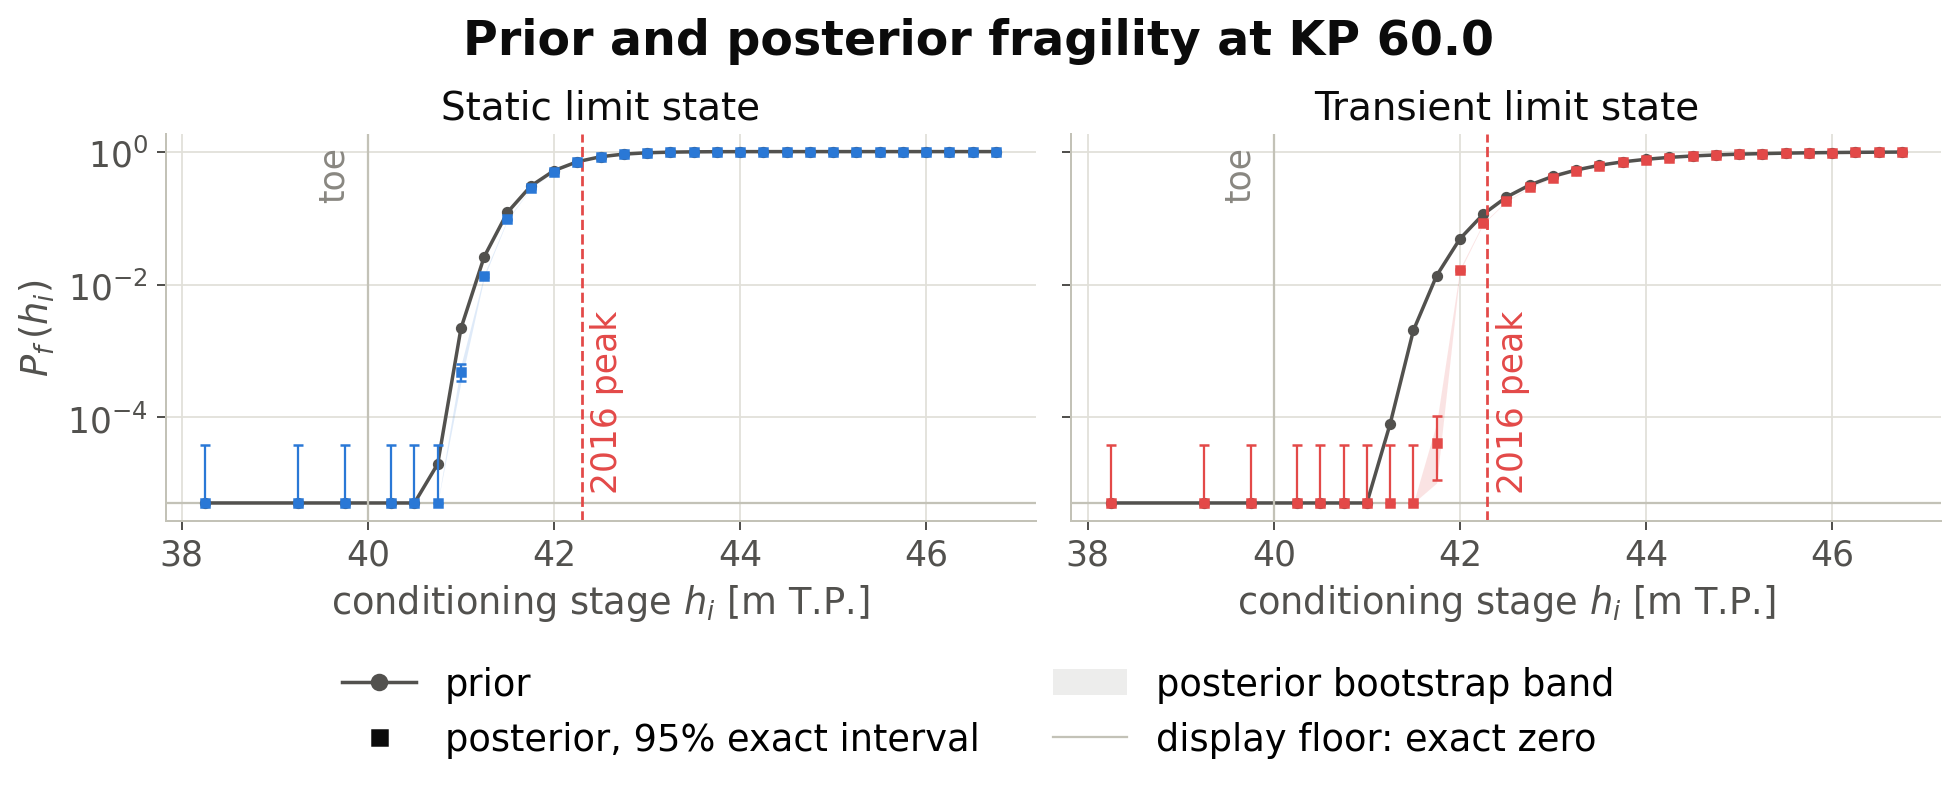
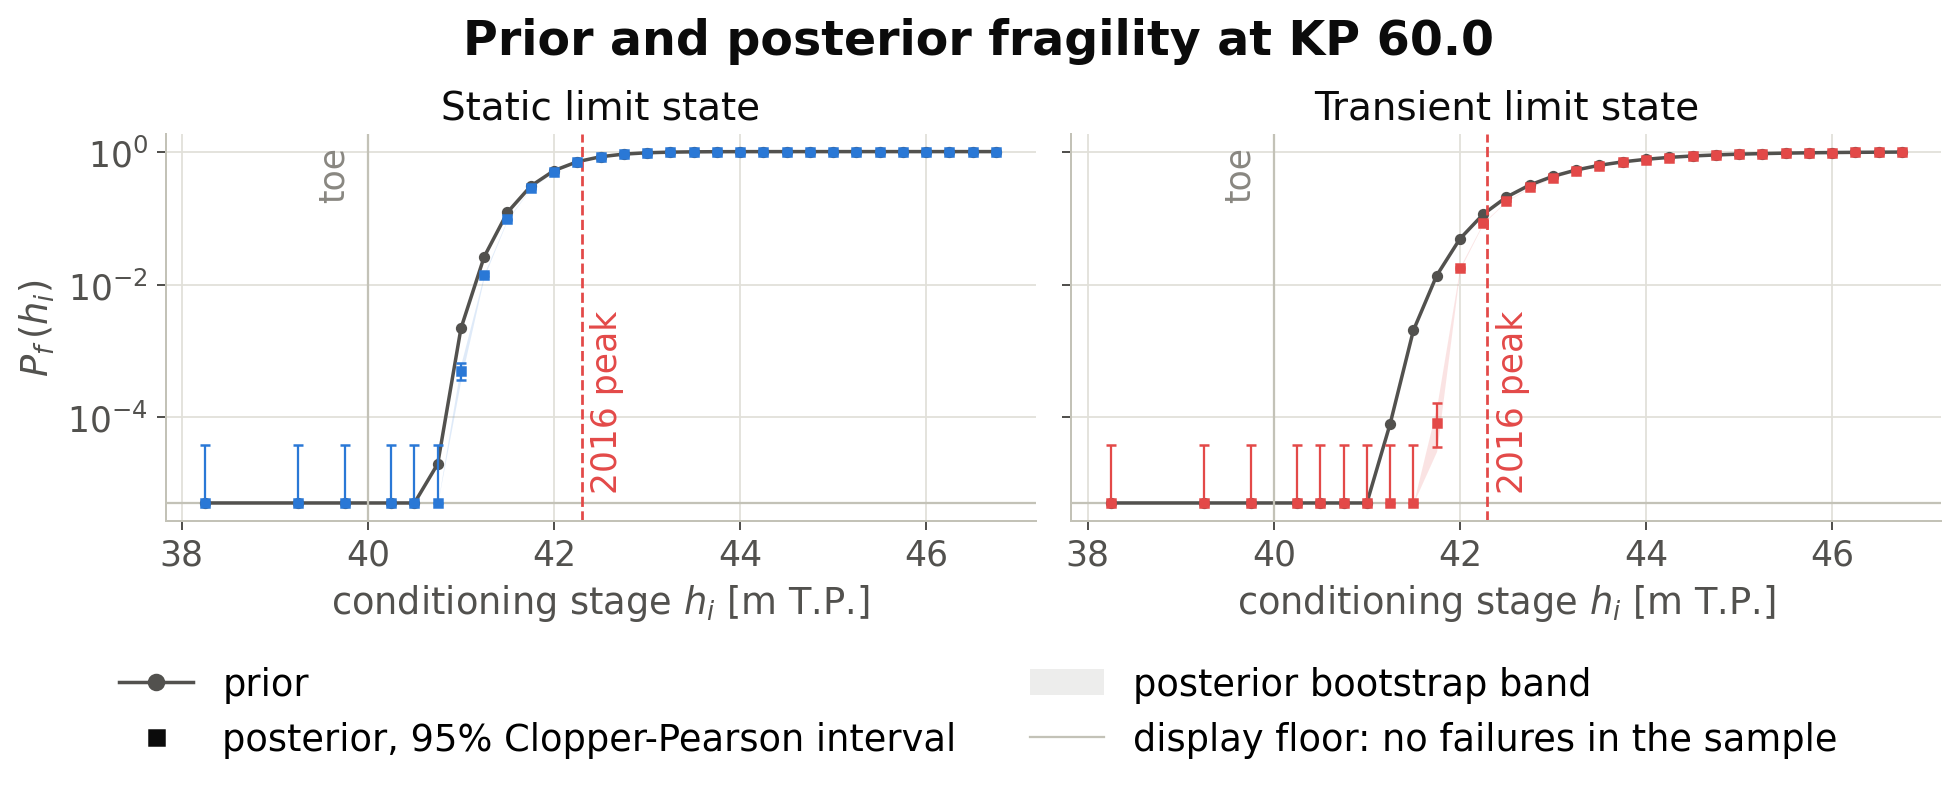
Say on four figures what the figures actually show
Label-only, no computed quantity touched, and every figure redrawn after a
byte-identity determinism check against its committed copy.

The grain-size dependence diagnostic titled its left panel "the median grain
size" over an axis of ln d60. The median is d50, which OYO reports separately;
both panels now name their percentile, and the leading "Against the" went with
it because the percentile form is nine characters longer and the two titles
then met in the gutter.

The Phase 2 posterior legend called the display floor an "exact zero" where a
marker on it means no realization failed at that level, and the same marker
carries a non-zero Clopper-Pearson upper whisker two pixels away. It now names
the count. The interval was labelled "95% exact interval"; after the coverage
measurement the construction is the part that may be claimed, so it is named.
The fifteen prose sites keep "exact binomial interval" as the construction's
name, deliberately.

The prior-fragility panels titled two sections "drained" over curves computed
on the unremediated foundation. The state is now given as as-built and the
figure title states the evaluation basis once, which covers all four panels of
both figures.

The aquifer-response legend set "1.5 h plateau" against a rising-limb axis.
ADR-0032 retired that figure against a measured 18 h rise and 9 h plateau, and
it is a plateau quantity; it is drawn here as the flood timescale the retired
[…]

diff --git a/scripts/plot_fragility_curves.py b/scripts/plot_fragility_curves.py
@@ -49,6 +49,20 @@ FIGURES_DIR = RESULTS_DIR / "figures"
 PUB_FIGURES_DIR = REPO_ROOT / "docs" / "figures"
 
 
+#: Panel titles carry the section's **as-built** remediation state, which the
+#: engine does not model: every curve in these figures is computed on the
+#: unremediated foundation (``remediation_state`` is a label, not physics).
+#: The word alone read as an applied drained model, so the state is named as
+#: as-built and the figure title states the evaluation basis once.
+PANEL_STATE_PREFIX = "as built"
+EVALUATION_BASIS = "unremediated foundation"
+
+
+def _panel_label(kp: str, remediation: str) -> str:
+    """``KP 58.8 · as built: drained`` — status, not model."""
+    return f"KP {kp}  ·  {PANEL_STATE_PREFIX}: {remediation}"
+
+
 def save_both(fig, name: str) -> None:
     """Write the study-local copy and the tracked publication copy."""
     FIGURES_DIR.mkdir(parents=True, exist_ok=True)
@@ -221,7 +235,7 @@ def figure_per_section(data: dict[str, dict]) -> None:
                 color=INK_2,
                 fontsize=fs.pt("annotation", SCALE),
             )
-        fs.panel_title(ax, f"KP {kp}  ·  {d['remediation']}", scale=SCALE)
+        fs.panel_title(ax, _panel_label(kp, d["remediation"]), scale=SCALE)
         ax.set_ylim(-0.03, 1.03)
         ax.set_xlabel("conditioning water level h  [m T.P.]")
     for ax in axes[:, 0]:
@@ -230,7 +244,7 @@ def figure_per_section(data: dict[str, dict]) -> None:
     fs.legend_below(fig, handles, labels, scale=SCALE)
     fs.title(
         fig,
-        "Prior fragility at the four cross-sections",
+        f"Prior fragility at the four cross-sections, {EVALUATION_BASIS}",
         scale=SCALE,
     )
     fs.layout(fig, scale=SCALE, legend_rows=1)
@@ -364,7 +378,7 @@ def figure_tail_log(data: dict[str, dict]) -> None:
             )
         ax.set_yscale("log")
         ax.set_ylim(floor / 2, 1.5)
-        fs.panel_title(ax, f"KP {kp}  ·  {d['remediation']}", scale=SCALE)
+        fs.panel_title(ax, _panel_label(kp, d["remediation"]), scale=SCALE)
         ax.set_xlabel("conditioning water level h  [m T.P.]")
     for ax in axes[:, 0]:
         ax.set_ylabel("P(failure | h)   [log]")
@@ -372,7 +386,7 @@ def figure_tail_log(data: dict[str, dict]) -> None:
     fs.legend_below(fig, handles, labels, scale=SCALE)
     fs.title(
         fig,
-        "The fragility tails on a logarithmic axis",
+        f"The fragility tails on a logarithmic axis, {EVALUATION_BASIS}",
         scale=SCALE,
     )
     fs.layout(fig, scale=SCALE, legend_rows=1)

diff --git a/bayesian_reliability_updating/plots.py b/bayesian_reliability_updating/plots.py
@@ -338,7 +338,7 @@ def plot_fragility_update(
             linewidth=0,
             elinewidth=0.9,
             capsize=2,
-            label="posterior, 95 per cent exact interval",
+            label="posterior, 95 per cent Clopper-Pearson interval",
         )
         if z_toe_m is not None:
             ax.axvline(z_toe_m, color="#c3c2b7", linewidth=0.9)
@@ -368,8 +368,11 @@ def plot_fragility_update(
                 textcoords="offset points",
             )
         # The floor row is a display device, not a measurement: a marker on it
-        # is an exact zero. Neither the figure nor its caption said so, and a
-        # reader had every reason to take it for a probability of about 5e-6.
+        # is a level at which no realization failed. Neither the figure nor its
+        # caption said so, and a reader had every reason to take it for a
+        # probability of about 5e-6. It is not a zero *probability* either, and
+        # the figure says so itself: the same marker carries a non-zero
+        # Clopper-Pearson upper whisker. The legend therefore names the count.
         ax.axhline(floor, color="#c3c2b7", lw=0.9, zorder=1)
         ax.set_yscale("log")
         ax.set_title(label, fontsize=points["panel_title"], color=_INK)
@@ -389,9 +392,9 @@ def plot_fragility_update(
         handles,
         [
             "prior",
-            "posterior, 95% exact interval",
+            "posterior, 95% Clopper-Pearson interval",
             "posterior bootstrap band",
-            "display floor: exact zero",
+            "display floor: no failures in the sample",
         ],
         loc="upper center",
         ncol=2,

diff --git a/scripts/plot_kaq_d70_scatter.py b/scripts/plot_kaq_d70_scatter.py
@@ -260,16 +260,20 @@ def build_figure(specimens: list[Specimen]):
 
     results = {}
     for ax, key, name, descriptor, hazen in (
-        (axes[0], "d60_mm", r"$\ln\,d_{60}$  [mm]", "median", None),
-        (axes[1], "d10_mm", r"$\ln\,d_{10}$  [mm]", "fine", 2.0),
+        # The descriptor names the percentile, not a relative size. It read
+        # "median" for d60 and "fine" for d10; d60 is the 60th-percentile
+        # diameter and the median is d50, which OYO reports separately. The
+        # leading "Against the" was dropped with it: the percentile form is
+        # nine characters longer and the two titles then met in the gutter.
+        (axes[0], "d60_mm", r"$\ln\,d_{60}$  [mm]", "60th-percentile", None),
+        (axes[1], "d10_mm", r"$\ln\,d_{10}$  [mm]", "10th-percentile", 2.0),
     ):
         r, slope = _panel(ax, specimens, key, scale, hazen_slope=hazen)
         results[key] = r
         ax.set_xlabel(name, fontsize=fs.pt("axis_label", scale))
         fs.panel_title(
             ax,
-            f"Against the {descriptor} grain size: "
-            f"r = {r:+.2f}, slope {slope:+.2f}",
+            f"{descriptor} diameter: r = {r:+.2f}, slope {slope:+.2f}",
             scale=scale,
         )
         # Room for the label columns on both flanks, taken before the labels

diff --git a/scripts/aquifer_response_diagnostic.py b/scripts/aquifer_response_diagnostic.py
@@ -270,12 +270,19 @@ def _plot(spreads: dict[str, list[dict]], blocks: dict[str, dict]) -> None:
             label=section.replace("KP", "KP "),
             color=colors[section],
         )
+    # The 1.5 h figure the specification carried is a *peak-plateau* duration
+    # (ADR-0032 retired it against a measured 18 h rise and 9 h plateau), so
+    # labelling it "1.5 h plateau" on a rising-limb axis set two unlike
+    # quantities against each other. It is drawn here as what it is: the flood
+    # timescale the retired expectation assumed, an order-of-magnitude
+    # reference for the measured rising limbs beside it. The plateau-against-
+    # plateau comparison is in the text, not on this axis.
     axes[0].axvline(
         1.5,
         color=fs.INK_2,
         ls=":",
         lw=1,
-        label="1.5 h plateau, the flashy-river expectation",
+        label="1.5 h, the retired flashy-river timescale",
     )
     axes[0].set_xlabel(r"rising-limb time $T_\mathrm{rise}$, 10 per cent to peak [h]")
     axes[0].set_ylabel("ensemble members")
